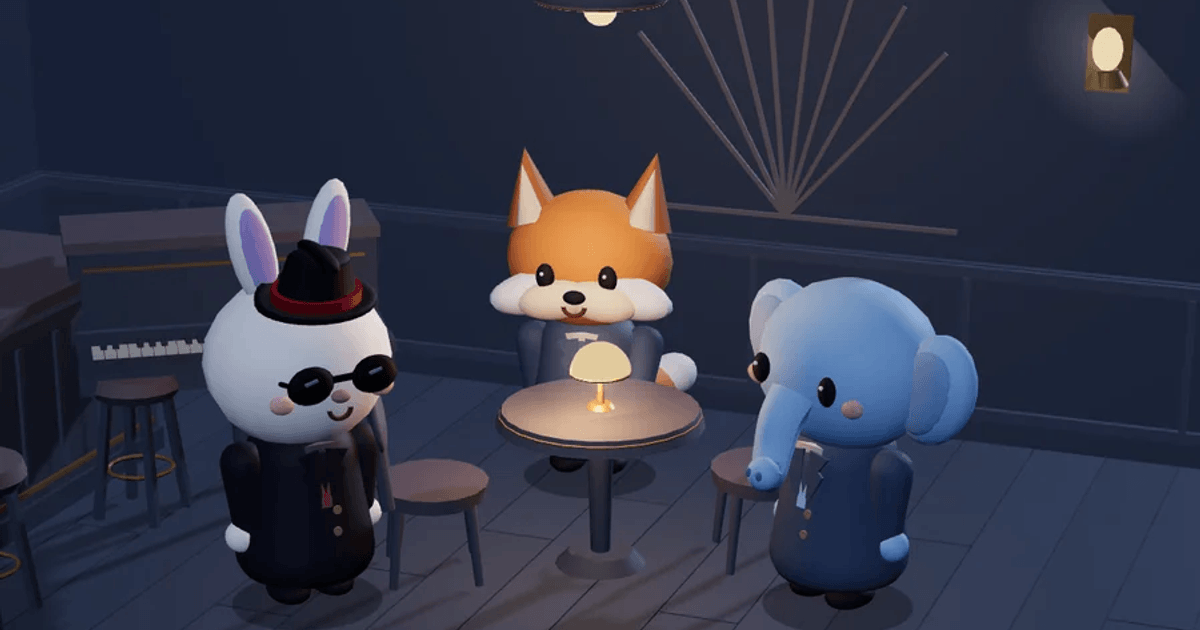
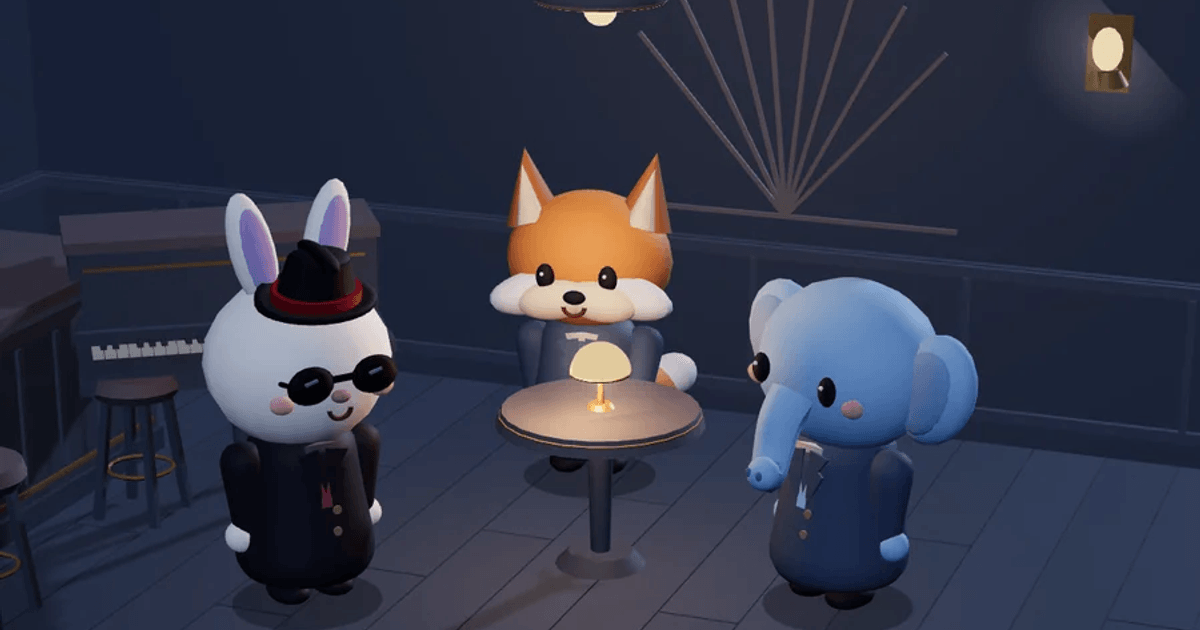
fix: 홈 원탁 양옆 의자 제거

Changed region(s): [[0.2775, 0.6333, 0.4317, 0.9349], [0.5858, 0.6937, 0.6475, 0.9048]]

diff --git a/src/world/maps/bar.ts b/src/world/maps/bar.ts
@@ -369,7 +369,7 @@ function windowBeamGeometry(): BufferGeometry {
   return geometry;
 }
 
-export function buildBarScene(budget: Budget): BarScene {
+export function buildBarScene(budget: Budget, { omitTableChairsAt }: { omitTableChairsAt?: readonly [number, number] } = {}): BarScene {
   const root = new Scene();
   const P = PALETTE;
 
@@ -547,6 +547,7 @@ export function buildBarScene(budget: Budget): BarScene {
     brass.add(new TorusGeometry(0.142, 0.008, 5, 15), P.brass, tf(x, 0.969, z, -Math.PI / 2));
     // 앞쪽 탁상등의 빛 무리도 높이 1.2 시야 제한 안에 둔다.
     glow(glowRoom, P.lamp, x + z > 4 ? 0.54 : 0.66, x, 0.971, z, 0.46);
+    if (omitTableChairsAt?.[0] === x && omitTableChairsAt[1] === z) continue;
     for (let j = 0; j < 2; j++) {
       const a = Math.atan2(x, z) + (j ? Math.PI / 2 : -Math.PI / 2);
       const ch = tf(x + Math.sin(a) * 0.8, 0, z + Math.cos(a) * 0.8, 0, a + Math.PI, 0);

diff --git a/index.html b/index.html
@@ -12,7 +12,7 @@
     <meta property="og:title" content="미니피아" />
     <meta property="og:description" content="우리 중 누가 마피아일까? 친구들과 함께하는 추리 게임." />
     <meta property="og:type" content="website" />
-    <meta property="og:image" content="https://minifia-v3.dhplay.workers.dev/og.png?v=home-seats-1" />
+    <meta property="og:image" content="https://minifia-v3.dhplay.workers.dev/og.png?v=home-table-1" />
     <meta property="og:image:width" content="1200" />
     <meta property="og:image:height" content="630" />
     <link rel="preconnect" href="https://fonts.googleapis.com" />

diff --git a/src/net/assets.ts b/src/net/assets.ts
@@ -31,7 +31,7 @@ export type PreloadItem = { href: string; imageSrcSet?: string };
  */
 export const ASSET_VERSION = "noir-11";
 /** 입장 배경은 캐릭터·맵 그림과 별도로 갱신한다. */
-export const ENTRY_ART_VERSION = "home-seats-1";
+export const ENTRY_ART_VERSION = "home-table-1";
 
 // 파일 이름의 @ 는 URL 에서 %40 으로 쓴다.
 function png(dir: "table" | "roles" | "ghost", id: string, scale: 2 | 4): string {

diff --git a/docs/decisions/0100-home-art-and-discussion-controls.md b/docs/decisions/0100-home-art-and-discussion-controls.md
@@ -2,7 +2,7 @@
 
 첫 화면에서 본 인물을 대기실에서도 알아볼 수 있게 홈 배경에 실제 좌석 모델 세 명과 재즈 바를 사용한다. 카메라와 조명은 홈의 제목과 하단 입력 영역에 맞춰 배치한다. 렌더링은 그림을 만들 때 한 번 실행하고, 홈과 초대장은 정적 이미지를 읽는다.
 
-토끼와 코끼리는 테이블 옆 의자 바깥에 서서 발과 좌판의 윤곽이 따로 보인다. 홈 제목은 자체 호스팅한 명조 웹폰트로 조판하고, 제목과 부제 사이에 재즈 바 벽 장식을 닮은 얇은 황동색 선을 둔다. 홈과 초대 미리보기의 새 이미지는 별도 캐시 버전으로 읽는다.
+홈 촬영에서 테이블 양옆 의자 두 개를 빼고, 동물 세 마리가 테이블을 둘러싼 구도를 사용한다. 홈 제목은 자체 호스팅한 명조 웹폰트로 조판하고, 제목과 부제 사이에 재즈 바 벽 장식을 닮은 얇은 황동색 선을 둔다. 홈과 초대 미리보기의 새 이미지는 별도 캐시 버전으로 읽는다.
 
 홈 테이블 왼쪽의 도윤과 마피아 의상 미리보기, 역할 카드에는 선글라스와 빨간 띠 중절모를 쓴 같은 인물을 사용한다. 어느 좌석에서 마피아 의상을 골라도 이 인물이 된다. 역할을 확인한 마피아는 자기 화면에서도 이 모습으로 플레이한다. 다른 참가자의 화면에는 각자가 고른 공개 의상만 보이고, 판이 끝나면 살아남은 마피아의 직업 의상을 모두에게 보여 준다.
 
